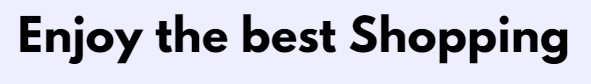
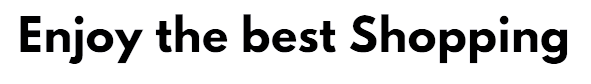
add all files

diff --git a/src/Componentes/MainHome.css b/src/Componentes/MainHome.css
@@ -16,8 +16,9 @@
     height: 285px;
     display: block;
     margin: 1px auto;
-    mix-blend-mode: color-burn;
+    background: none;
 }
+
 #heding-2 {
     height: 62px;
     display: block;
